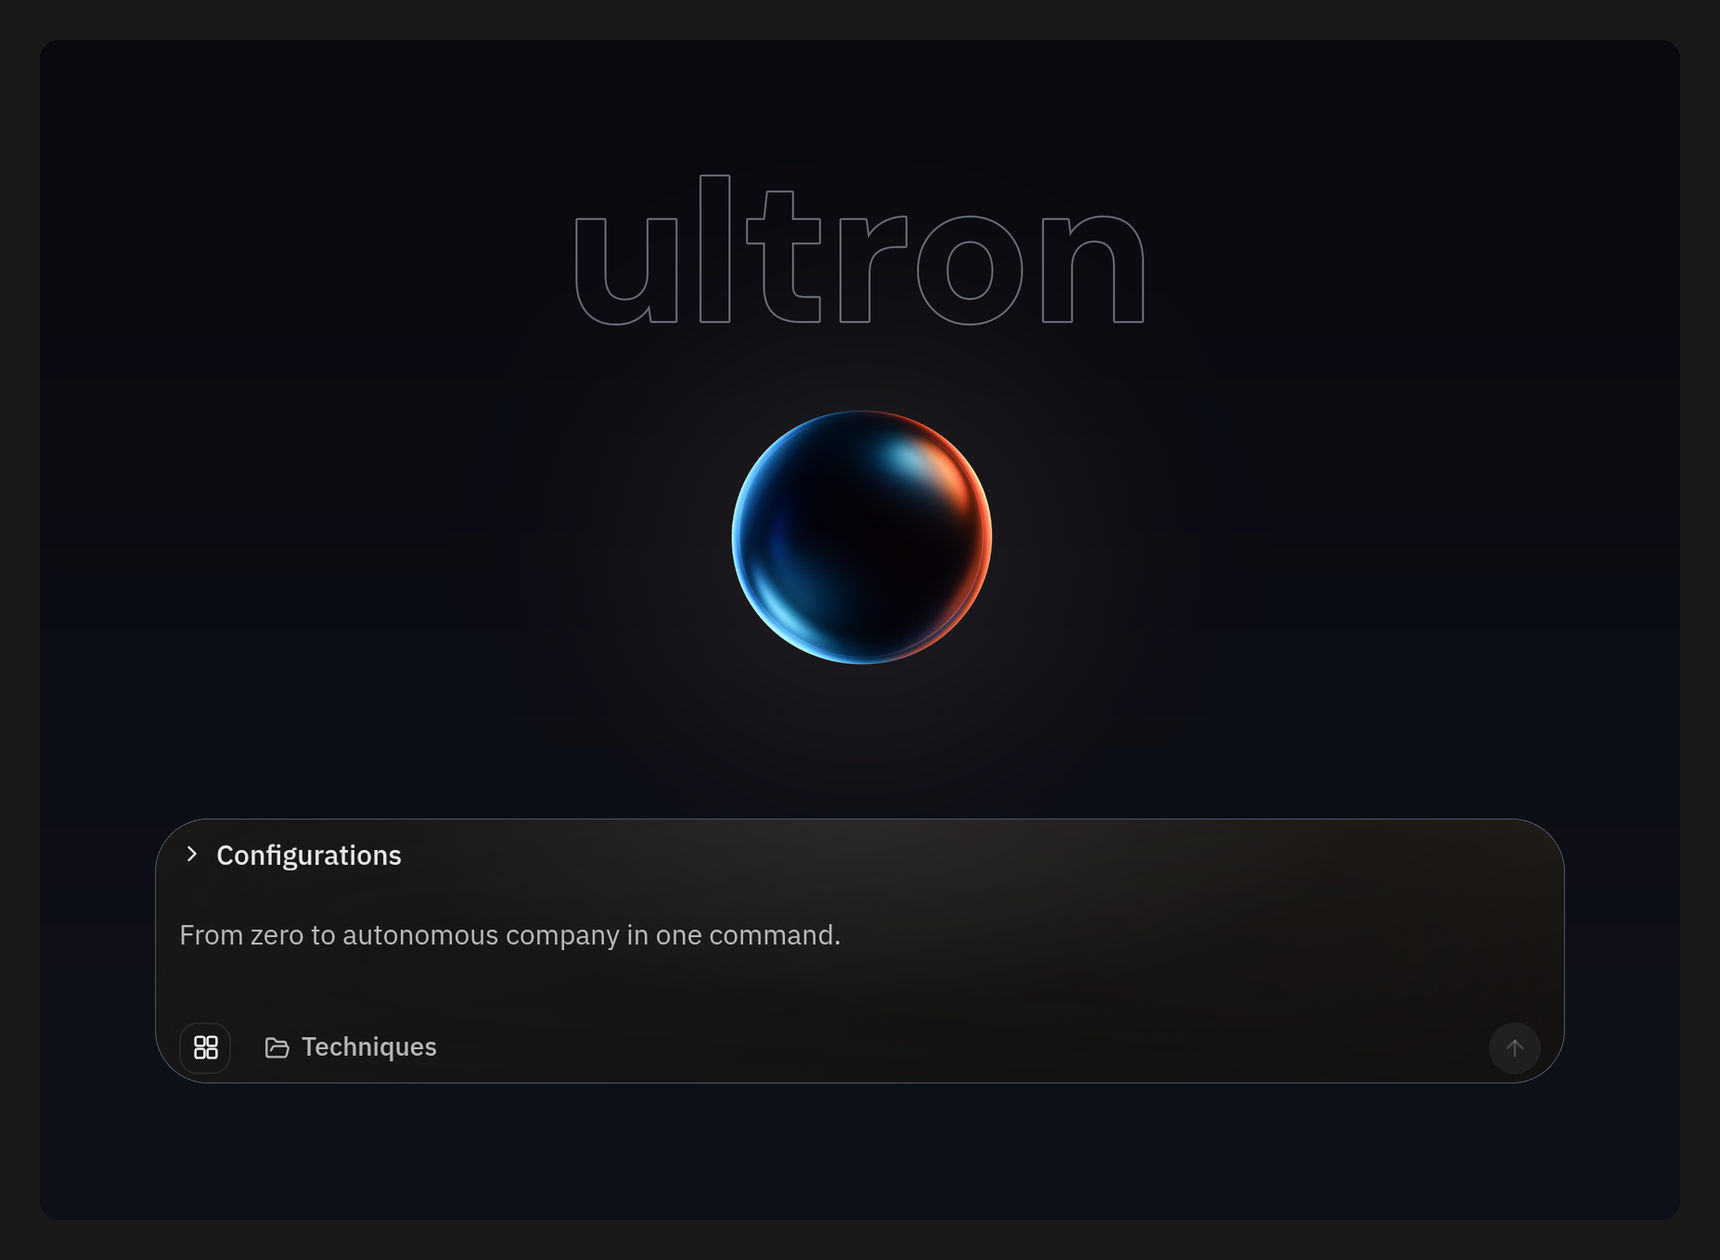
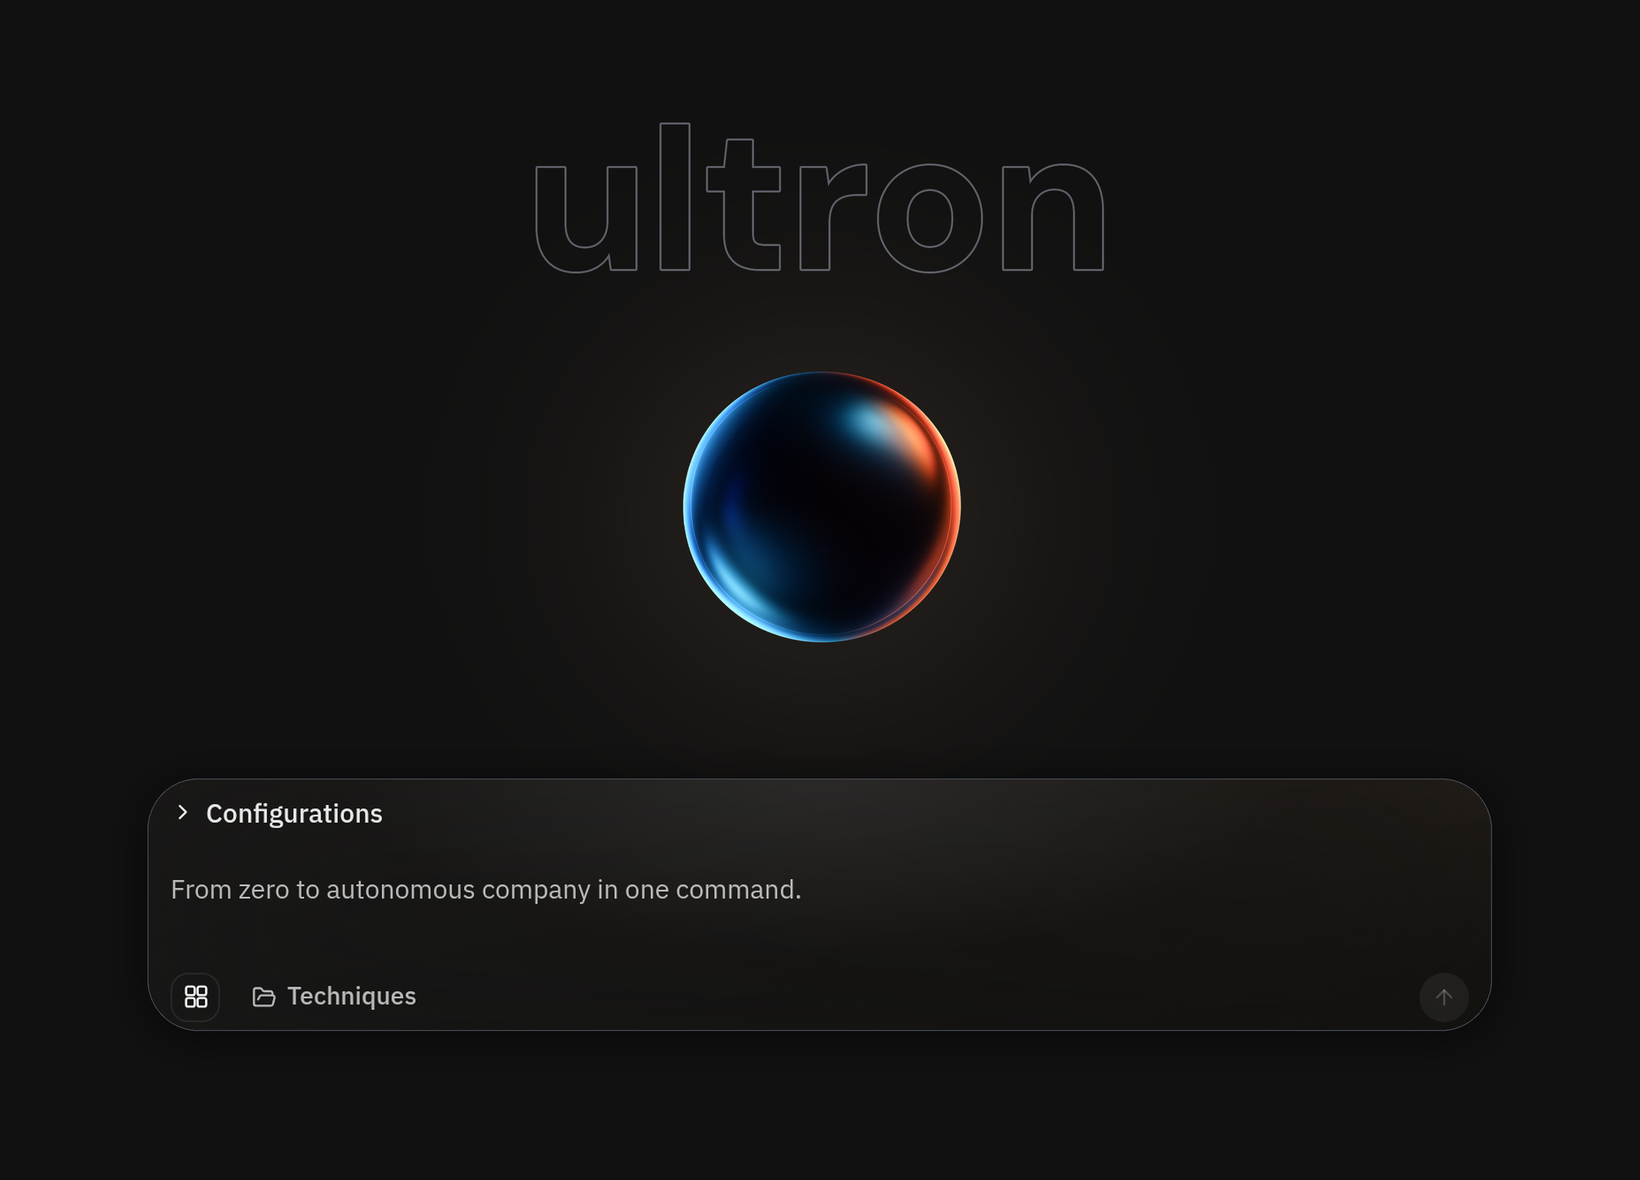
vs ME -> 38 (sum of slide headcounts); shared Ultron mockup; no-blue bg
- Cover + slide 9 number = 38 (6+8+5+7+4+3+5, the real total the chat replaces);
  renamed vault rows 50 -> 38, caption updated.
- Ultron slide object: drop the blue background so it melts into the slide (no
  cut-out rectangle) - outline wordmark + sphere + real composer bar on slate.
- I CAN'T CODE: Ultron slide now uses the same mockup.
Both re-pushed in place to fresh v3 keys (no duplicate rows).

Claude-Session: https://claude.ai/code/session_014kd6D8JB5VW3pfqpgRb2H7

diff --git a/content/_hitl-src/build_rival2_3d.py b/content/_hitl-src/build_rival2_3d.py
@@ -9,7 +9,7 @@ T2=importlib.util.module_from_spec(spec); spec.loader.exec_module(T2)
 wo=lambda s:(s,T2.WHITE); co=lambda s:(s,T2.CORAL)
 R=f"{T2.OBJ}/models_rival2"; P=f"{T2.OBJ}/models_money/p"; LIB=T2.LIB
 
-T2.COVER=dict(head=[[wo("My rival has 50 staff.")],[co("I have one chat.")]])
+T2.COVER=dict(head=[[wo("My rival has 38 staff.")],[co("I have one chat.")]])
 T2.CONTENT=[
  ("RESEARCH", [[wo("A research team of six.")],[co("Or one chat.")]], f"{R}/zoominfo.png",  0.95),
  ("OUTBOUND", [[wo("Eight SDRs on the floor.")],[co("Or one chat.")]],f"{R}/salesloft.png", 0.95),
@@ -18,7 +18,7 @@ T2.CONTENT=[
  ("CONTENT",  [[wo("Four content writers.")],[co("Or one chat.")]],   f"{R}/notion.png",    0.95),
  ("DESIGN",   [[wo("Three designers.")],[co("Or one chat.")]],        f"{R}/figma.png",     0.95),
  ("GROWTH",   [[wo("A growth team of five.")],[co("Or one chat.")]],  f"{R}/googleads.png", 0.95),
- ("ULTRON",   [[wo("Fifty people.")],[co("Or one chat.")]],           f"{R}/ultron_login.png", 0.98),
+ ("ULTRON",   [[wo("38 people.")],[co("Or one chat.")]],           f"{R}/ultron_login.png", 0.98),
 ]
 T2.CTA=("RUN ON ONE", [[wo("Run on one,")],[co("comment OPERATOR.")]], f"{LIB}/cta3d-operator.png", 0.92)
 

diff --git a/content/_hitl-src/build_cantcode_3d.py b/content/_hitl-src/build_cantcode_3d.py
@@ -14,7 +14,7 @@ T2.CONTENT=[
  ("FIXES",     [[wo("It fixes")],[co("its own bugs.")]],        f"{M}/fixes.png",      0.90),
  ("USERS",     [[wo("5,000+")],[co("signed up.")]],             f"{M}/analytics.png",  0.95),
  ("THE GATE",  [[wo("I approve")],[co("every ship.")]],         f"{M}/gate.png",       0.72),
- ("ULTRON",    [[wo("I can't code.")],[co("It can.")]],         f"{P}/ultron.png",     0.92),
+ ("ULTRON",    [[wo("I can't code.")],[co("It can.")]],         f"{T2.OBJ}/models_rival2/ultron_login.png", 0.98),
 ]
 T2.CTA=("BUILD YOURS", [[wo("Build yours,")],[co("comment BUILDER.")]], f"{LIB}/cta3d-builder.png", 0.92)
 if __name__=="__main__":

diff --git a/content/rival2-3d-tiktok-caption.md b/content/rival2-3d-tiktok-caption.md
@@ -1,4 +1,4 @@
-50 EMPLOYEES vs ME 9:16 (TikTok + Instagram, 3D) - caption
+38 EMPLOYEES vs ME 9:16 (TikTok + Instagram, 3D) - caption
 
 CTA-first, one beat per paragraph, exactly 5 hashtags. Same caption for both channels.
 
@@ -6,7 +6,7 @@ CTA-first, one beat per paragraph, exactly 5 hashtags. Same caption for both cha
 
 Comment OPERATOR and I will send you the exact setup.
 
-My competitor has fifty employees. I have one.
+My competitor has 38 employees. I have one.
 
 A research team, eight SDRs, a sales floor, support, content, design, growth.
 
